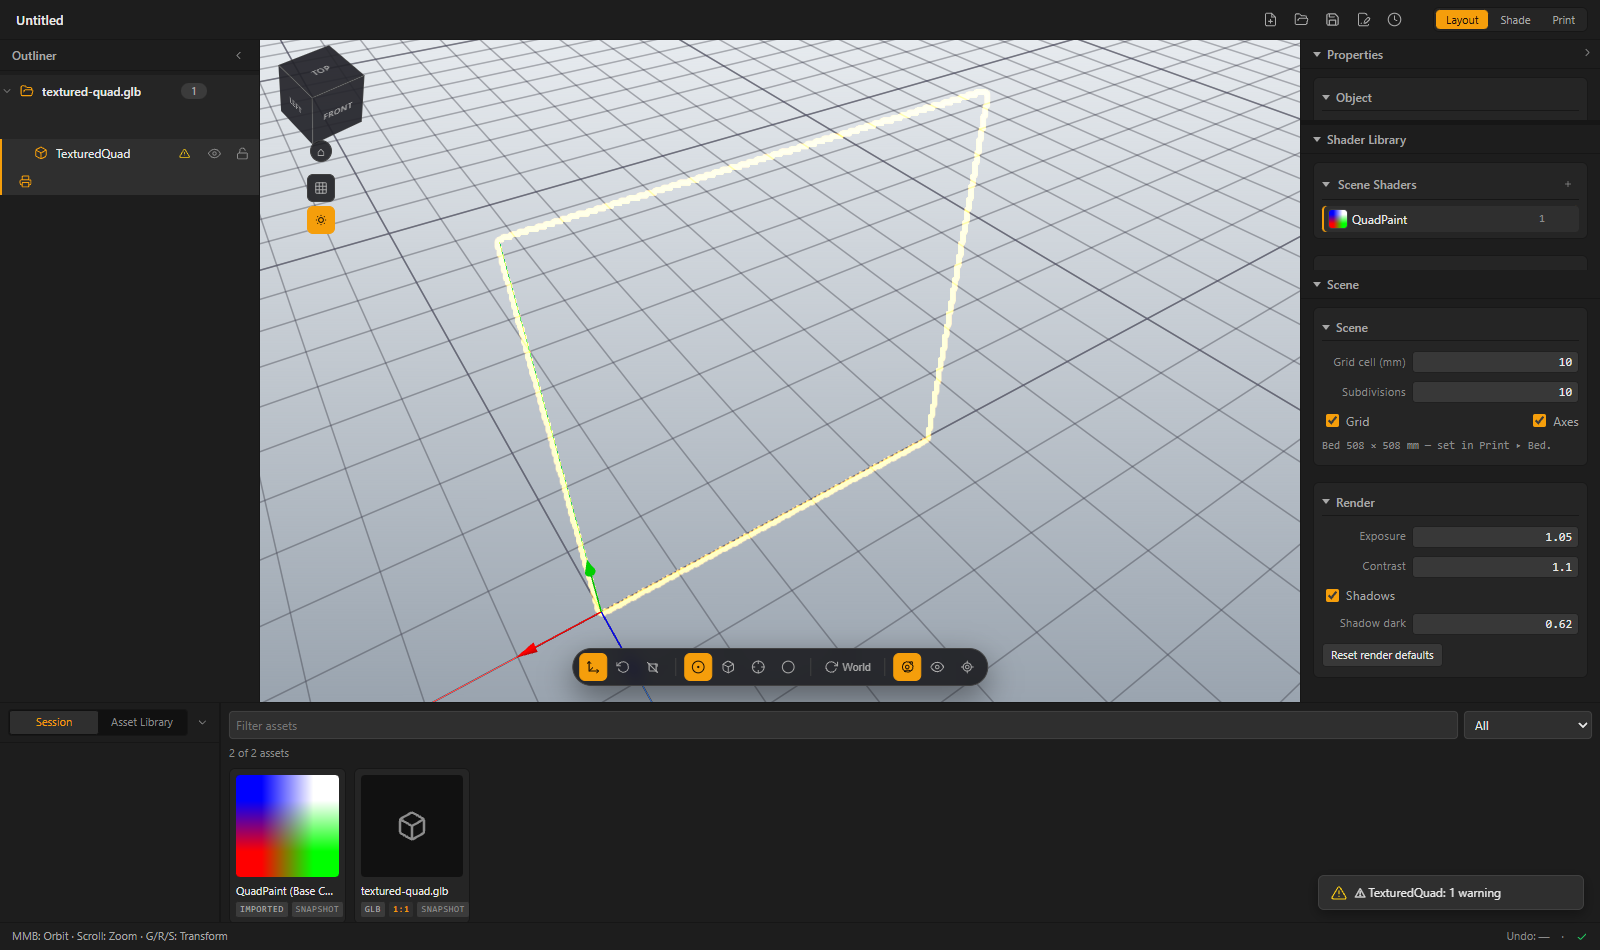
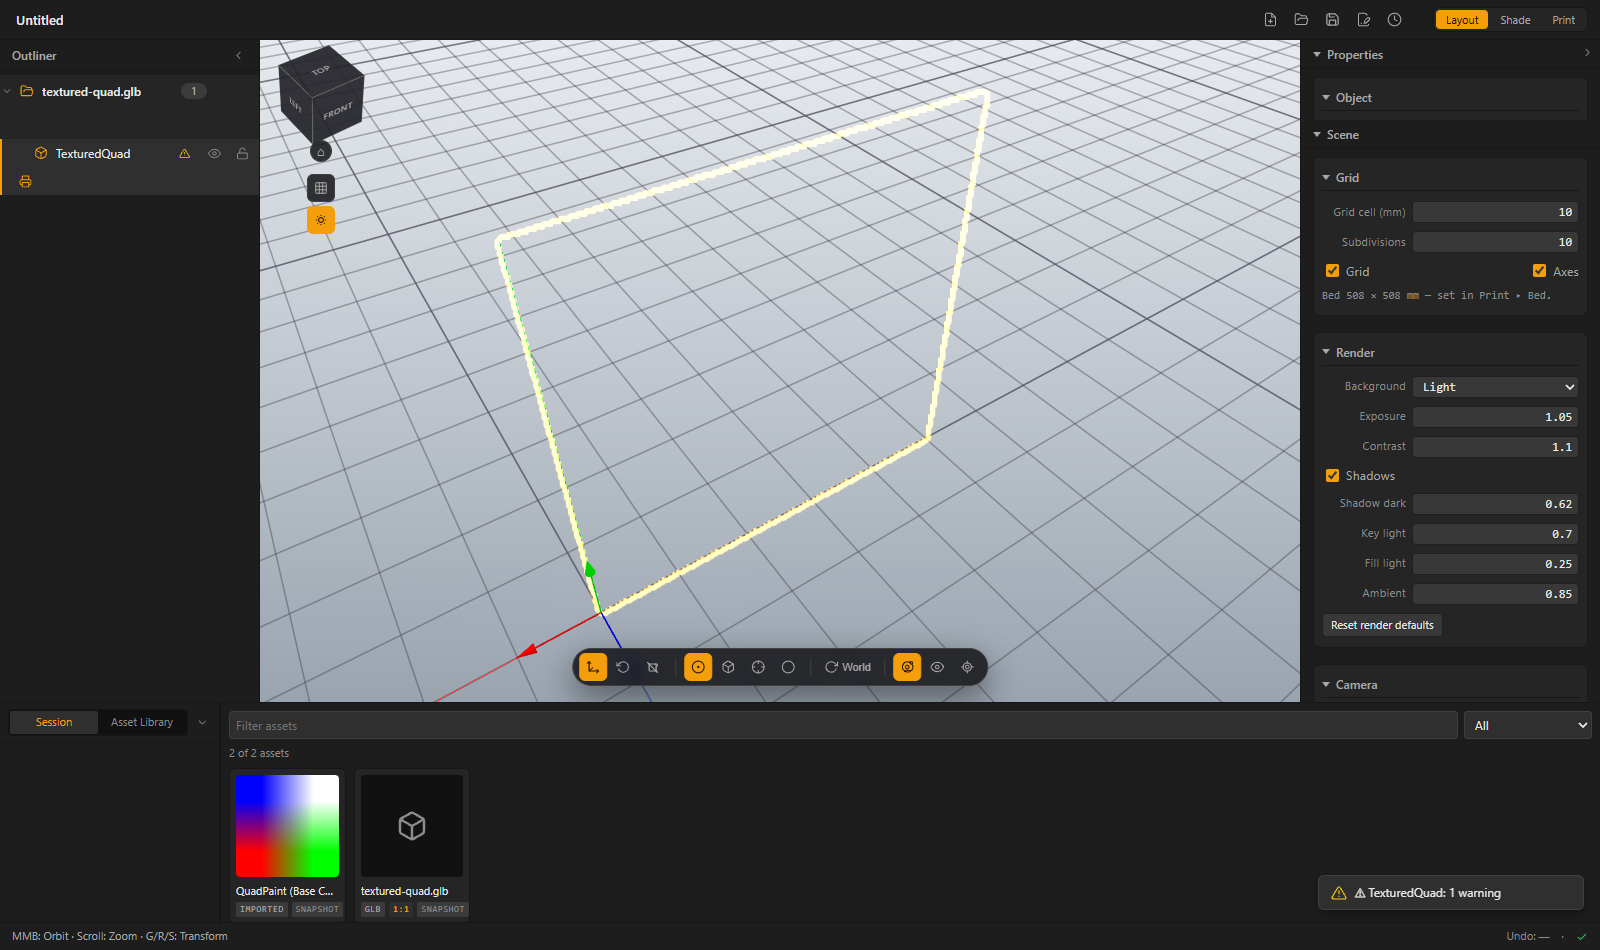
feat(scene): background/lights/camera render settings + one specialist panel per workspace
Scene panel grows two capabilities and the workspaces stop repeating
sections:

- Render section: background Light/Dark toggle (gradient backdrop +
  clearColor repaint via _paintBackground; dark pair added to
  SceneConstants), plus key/fill/ambient light intensity fields
  (SceneManager keeps the light refs now).
- New Camera section: FOV (deg, clamped 5-140) and near clip (mm) ->
  CameraRig.applyCameraOptics, called from applyRenderSettings so one
  settings object drives everything. All persisted in
  sceneSettings.render and re-applied on boot/load/new.
- Workspace sections are now exclusive (user decision: no repeated
  sections across workspaces unless genuinely needed):
  Layout -> Properties + Scene, Shade -> Properties + Shader Library,
  Print -> Properties + Print. The Properties/Shader splitter only
  exists in Shade. ShaderPanel.focus() auto-switches to the Shade
  workspace when invoked from elsewhere (Properties chip click,
  ContextMenu Set Shader) so the edit surface always appears.

Blueprint: render state shape, .mixo schema, Scene panel doc, and the
13b workspace table updated to match.

diff --git a/src/core/SceneManager.js b/src/core/SceneManager.js
@@ -5,6 +5,8 @@ import {
   CURSOR_DIAMETER,
   BG_GRADIENT_TOP,
   BG_GRADIENT_BOTTOM,
+  BG_DARK_TOP,
+  BG_DARK_BOTTOM,
   HEMI_INTENSITY,
   HEMI_GROUND_COLOR,
   KEY_INTENSITY,
@@ -20,7 +22,7 @@ import {
   setGroundVisible, updateBedPreview as _bedUpdatePreview, disposeBedPreview,
 } from './scene/BedGrid.js';
 import {
-  initCameraRig, getCamera,
+  initCameraRig, getCamera, applyCameraOptics,
   setCameraPreset, toggleOrthographic, frameAll, frameSelected,
   saveCameraState, restoreCameraState, setFollowMode,
 } from './scene/CameraRig.js';
@@ -56,6 +58,9 @@ let _scene     = null;
 let _axes      = null;   // { x, y, z } line meshes
 let _cursor    = null;
 let _shadowGen = null;
+let _bgTexture = null;   // gradient DynamicTexture — repainted on bg toggle
+let _bgMode    = 'light';
+let _lights    = null;   // { hemi, key, fill } — Scene panel intensity sliders
 
 // Print preview material tracking
 const _printPreviewMaterialMap = new Map(); // materialId → { originalMetallic }
@@ -136,19 +141,30 @@ export function init(canvas) {
 // texture is enough — it stretches across the viewport; clamp wrap stops
 // edge bleed.
 function _setupBackground() {
-  const tex = new BABYLON.DynamicTexture('mx-bg-gradient', { width: 4, height: 512 }, _scene, false);
-  tex.wrapU = BABYLON.Texture.CLAMP_ADDRESSMODE;
-  tex.wrapV = BABYLON.Texture.CLAMP_ADDRESSMODE;
-  const ctx = tex.getContext();
-  const g = ctx.createLinearGradient(0, 0, 0, 512);
-  g.addColorStop(0, BG_GRADIENT_TOP);
-  g.addColorStop(1, BG_GRADIENT_BOTTOM);
-  ctx.fillStyle = g;
-  ctx.fillRect(0, 0, 4, 512);
-  tex.update();
+  _bgTexture = new BABYLON.DynamicTexture('mx-bg-gradient', { width: 4, height: 512 }, _scene, false);
+  _bgTexture.wrapU = BABYLON.Texture.CLAMP_ADDRESSMODE;
+  _bgTexture.wrapV = BABYLON.Texture.CLAMP_ADDRESSMODE;
+  _paintBackground('light');
 
   const layer = new BABYLON.Layer('mx-bg', null, _scene, /* isBackground */ true);
-  layer.texture = tex;
+  layer.texture = _bgTexture;
+}
+
+/** Repaint the gradient backdrop. @param {'light'|'dark'} mode */
+function _paintBackground(mode) {
+  if (!_bgTexture) return;
+  _bgMode = mode;
+  const top    = mode === 'dark' ? BG_DARK_TOP    : BG_GRADIENT_TOP;
+  const bottom = mode === 'dark' ? BG_DARK_BOTTOM : BG_GRADIENT_BOTTOM;
+  const ctx = _bgTexture.getContext();
+  const g = ctx.createLinearGradient(0, 0, 0, 512);
+  g.addColorStop(0, top);
+  g.addColorStop(1, bottom);
+  ctx.fillStyle = g;
+  ctx.fillRect(0, 0, 4, 512);
+  _bgTexture.update();
+  // Fallback solid (pre-layer frames + screenshot edges) tracks the bottom.
+  _scene.clearColor = BABYLON.Color4.FromHexString(bottom + 'ff');
 }
 
 // ── Lighting ─────────────────────────────────────────────
@@ -171,6 +187,8 @@ function _setupLighting() {
   const fill = new BABYLON.DirectionalLight('fill', new BABYLON.Vector3(1, -1, 1), _scene);
   fill.intensity = FILL_INTENSITY;
   fill.specular  = new BABYLON.Color3(0, 0, 0);
+
+  _lights = { hemi, key, fill };
 
   _shadowGen = new BABYLON.ShadowGenerator(2048, key);
   _shadowGen.useBlurExponentialShadowMap = true;
@@ -371,7 +389,10 @@ export function updateBedPreview(dims) { _bedUpdatePreview(dims); }
  * Apply viewport render settings (Scene panel / state.scene.render).
  * Partial-safe: only the fields present are touched.
  * @param {{ exposure?: number, contrast?: number,
- *           shadowsEnabled?: boolean, shadowDarkness?: number }} [render]
+ *           shadowsEnabled?: boolean, shadowDarkness?: number,
+ *           background?: 'light'|'dark',
+ *           keyIntensity?: number, fillIntensity?: number, hemiIntensity?: number,
+ *           fovDeg?: number, clipNearMM?: number }} [render]
  */
 export function applyRenderSettings(render = {}) {
   if (!_scene) return;
@@ -385,6 +406,16 @@ export function applyRenderSettings(render = {}) {
       light.shadowEnabled = render.shadowsEnabled;
     }
   }
+  if ((render.background === 'light' || render.background === 'dark') &&
+      render.background !== _bgMode) {
+    _paintBackground(render.background);
+  }
+  if (_lights) {
+    if (Number.isFinite(render.hemiIntensity)) _lights.hemi.intensity = render.hemiIntensity;
+    if (Number.isFinite(render.keyIntensity))  _lights.key.intensity  = render.keyIntensity;
+    if (Number.isFinite(render.fillIntensity)) _lights.fill.intensity = render.fillIntensity;
+  }
+  applyCameraOptics(render);
 }
 
 // ── 3D cursor ────────────────────────────────────────────

diff --git a/src/ui/ScenePanel.js b/src/ui/ScenePanel.js
@@ -11,6 +11,7 @@ import { subscribe, getState, setState } from '../core/StateManager.js';
 import { SceneManager } from '../core/SceneManager.js';
 import {
   TONE_EXPOSURE, TONE_CONTRAST, SHADOW_DARKNESS,
+  KEY_INTENSITY, FILL_INTENSITY, HEMI_INTENSITY,
 } from '../core/scene/SceneConstants.js';
 
 const SILENT = { silent: true };
@@ -20,6 +21,12 @@ const RENDER_DEFAULTS = {
   contrast: TONE_CONTRAST,
   shadowsEnabled: true,
   shadowDarkness: SHADOW_DARKNESS,
+  background: 'light',
+  keyIntensity: KEY_INTENSITY,
+  fillIntensity: FILL_INTENSITY,
+  hemiIntensity: HEMI_INTENSITY,
+  fovDeg: 45.8,       // Babylon ArcRotateCamera default fov 0.8 rad
+  clipNearMM: 1,      // CameraRig boots with minZ 0.001 BU = 1 mm
 };
 
 let _bodyEl = null;
@@ -63,6 +70,13 @@ function _render() {
     <section class="pp-section">
       <header class="pp-section-header">Render</header>
       <div class="pp-row">
+        <label>Background</label>
+        <select data-render-select="background">
+          <option value="light" ${render.background !== 'dark' ? 'selected' : ''}>Light</option>
+          <option value="dark" ${render.background === 'dark' ? 'selected' : ''}>Dark</option>
+        </select>
+      </div>
+      <div class="pp-row">
         <label>Exposure</label>
         <input type="number" step="0.05" min="0.1" max="4" data-render="exposure" value="${_fmt(render.exposure)}">
       </div>
@@ -77,8 +91,31 @@ function _render() {
         <label>Shadow dark</label>
         <input type="number" step="0.05" min="0" max="1" data-render="shadowDarkness" value="${_fmt(render.shadowDarkness)}">
       </div>
+      <div class="pp-row">
+        <label>Key light</label>
+        <input type="number" step="0.05" min="0" max="3" data-render="keyIntensity" value="${_fmt(render.keyIntensity)}">
+      </div>
+      <div class="pp-row">
+        <label>Fill light</label>
+        <input type="number" step="0.05" min="0" max="3" data-render="fillIntensity" value="${_fmt(render.fillIntensity)}">
+      </div>
+      <div class="pp-row">
+        <label>Ambient</label>
+        <input type="number" step="0.05" min="0" max="3" data-render="hemiIntensity" value="${_fmt(render.hemiIntensity)}">
+      </div>
       <div class="pp-row pp-row-inline">
         <button type="button" class="pp-btn" data-action="render-reset">Reset render defaults</button>
+      </div>
+    </section>
+    <section class="pp-section">
+      <header class="pp-section-header">Camera</header>
+      <div class="pp-row">
+        <label>FOV (deg)</label>
+        <input type="number" step="1" min="5" max="140" data-render="fovDeg" value="${_fmt(render.fovDeg, 1)}">
+      </div>
+      <div class="pp-row">
+        <label>Near clip (mm)</label>
+        <input type="number" step="0.5" min="0.1" max="100" data-render="clipNearMM" value="${_fmt(render.clipNearMM, 1)}">
       </div>
     </section>
   `;
@@ -129,6 +166,11 @@ function _wire() {
   // Shadows toggle.
   _bodyEl.querySelector('[data-render-toggle="shadowsEnabled"]')?.addEventListener('change', (e) => {
     _setRender({ shadowsEnabled: e.target.checked });
+  });
+
+  // Background select.
+  _bodyEl.querySelector('[data-render-select="background"]')?.addEventListener('change', (e) => {
+    _setRender({ background: e.target.value === 'dark' ? 'dark' : 'light' });
   });
 
   _bodyEl.querySelector('[data-action="render-reset"]')?.addEventListener('click', () => {

diff --git a/src/core/StateManager.js b/src/core/StateManager.js
@@ -28,9 +28,16 @@ const INITIAL_STATE = {
     },
     overlays: { grid: true, axes: true, wireframe: false, printPreview: true, bedPreview: false },
     // Viewport render look (Scene panel). Defaults mirror scene/SceneConstants
-    // (TONE_EXPOSURE / TONE_CONTRAST / SHADOW_DARKNESS) — applied via
-    // SceneManager.applyRenderSettings on boot/load/new.
-    render: { exposure: 1.05, contrast: 1.10, shadowsEnabled: true, shadowDarkness: 0.62 },
+    // (tone/shadow/light values) — applied via SceneManager.applyRenderSettings
+    // on boot/load/new. fovDeg 45.8° = Babylon's 0.8 rad default; clipNearMM 1
+    // = the 1 mm near plane CameraRig boots with.
+    render: {
+      exposure: 1.05, contrast: 1.10,
+      shadowsEnabled: true, shadowDarkness: 0.62,
+      background: 'light',
+      keyIntensity: 0.70, fillIntensity: 0.25, hemiIntensity: 0.85,
+      fovDeg: 45.8, clipNearMM: 1,
+    },
     // The scene floor footprint equals the printer bed XY (print.bedDimensions).
     // `grid` only styles the lines drawn on it: cellMM = minor cell size in mm,
     // subdivisions = how many minor cells between major lines.

diff --git a/src/styles/layout.css b/src/styles/layout.css
@@ -263,8 +263,18 @@
    and the grid recomputes. Panel-level collapse uses the existing
    *-outer-collapsed classes + grid variables (driven by ui/Workspace.js). */
 
-body[data-workspace="layout"] #rp-print   { display: none; }
-body[data-workspace="shade"]  #rp-print   { display: none; }
+/* Each workspace shows Properties + exactly ONE specialist section — no
+   repeated sections across workspaces (they dilute the presets):
+     Layout → Scene (arrange + scene/render setup)
+     Shade  → Shader Library (ShaderPanel.focus auto-switches here)
+     Print  → Print
+   The splitter sits between Properties and Shader Library, so it only
+   exists in Shade. */
+body[data-workspace="layout"] #rp-print,
+body[data-workspace="layout"] #rp-shaders,
+body[data-workspace="layout"] .rp-splitter { display: none; }
+body[data-workspace="shade"]  #rp-print,
+body[data-workspace="shade"]  #rp-scene   { display: none; }
 body[data-workspace="print"]  #rp-shaders,
 body[data-workspace="print"]  #rp-scene,
 body[data-workspace="print"]  .rp-splitter { display: none; }

diff --git a/src/ui/ShaderPanel.js b/src/ui/ShaderPanel.js
@@ -13,6 +13,7 @@ import { icon } from '../core/Icons.js';
 import { AssetPanel } from './AssetPanel.js';
 import { Modal } from './Modal.js';
 import { escapeHtml as _escape, escapeAttr, safeImageSrc } from './renderSafe.js';
+import { Workspace } from './Workspace.js';
 
 const DRAG_MIME       = 'application/x-mixomesh-asset';
 const SHADER_DRAG_MIME = 'application/x-mixomesh-shader';
@@ -750,6 +751,10 @@ function _safeHex(value) {
 export function focus(shaderId) {
   if (!getState().scene.shaders[shaderId]) return;
   _editingId = shaderId;
+  // The Library section only exists in the Shade workspace (sections are
+  // per-workspace, no repeats) — focusing from Properties / ContextMenu in
+  // another workspace must bring it on screen first.
+  if (document.body.dataset.workspace !== 'shade') Workspace.setWorkspace('shade');
   document.getElementById('rp-shaders')?.classList.remove('collapsed');
   _render();
 }

diff --git a/src/core/scene/CameraRig.js b/src/core/scene/CameraRig.js
@@ -95,6 +95,20 @@ export function initCameraRig(scene, canvas) {
 /** @returns {BABYLON.ArcRotateCamera|null} */
 export function getCamera() { return _camera; }
 
+/**
+ * Apply camera optics from the Scene panel's render settings. Partial-safe.
+ * @param {{ fovDeg?: number, clipNearMM?: number }} [optics]
+ */
+export function applyCameraOptics(optics = {}) {
+  if (!_camera) return;
+  if (Number.isFinite(optics.fovDeg) && optics.fovDeg >= 5 && optics.fovDeg <= 140) {
+    _camera.fov = optics.fovDeg * Math.PI / 180;
+  }
+  if (Number.isFinite(optics.clipNearMM) && optics.clipNearMM > 0) {
+    _camera.minZ = optics.clipNearMM / 1000;   // mm → BU (1 BU = 1 m)
+  }
+}
+
 // ── Camera setup + pointer navigation ────────────────────
 
 function _setupCamera() {

diff --git a/src/core/scene/SceneConstants.js b/src/core/scene/SceneConstants.js
@@ -10,6 +10,10 @@ export const CURSOR_DIAMETER = 0.003;
 
 export const BG_GRADIENT_TOP = '#e7ebef';
 export const BG_GRADIENT_BOTTOM = '#9aa4af';
+// Dark viewport variant (Scene ▸ Render background toggle) — Blender-ish
+// neutral grays, kept lighter than the UI panels so silhouettes still read.
+export const BG_DARK_TOP = '#3c4046';
+export const BG_DARK_BOTTOM = '#1e2126';
 export const HEMI_INTENSITY = 0.85;
 export const HEMI_GROUND_COLOR = '#c6cbd2';
 export const KEY_INTENSITY = 0.70;

diff --git a/Blueprint.md b/Blueprint.md
@@ -687,7 +687,11 @@ const initialState = {
     // use (not in INITIAL_STATE); persistence restores them when present.
     // Viewport render look (Scene panel) — defaults mirror SceneConstants;
     // applied via SceneManager.applyRenderSettings on boot/load/new.
-    render: { exposure: 1.05, contrast: 1.10, shadowsEnabled: true, shadowDarkness: 0.62 },
+    // fovDeg 45.8 = Babylon's 0.8 rad default; clipNearMM 1 = 1 mm near plane.
+    render: { exposure: 1.05, contrast: 1.10, shadowsEnabled: true, shadowDarkness: 0.62,
+              background: 'light' /* |'dark' */,
+              keyIntensity: 0.70, fillIntensity: 0.25, hemiIntensity: 0.85,
+              fovDeg: 45.8, clipNearMM: 1 },
     grid: { cellMM: 10, subdivisions: 10 },  // line styling only; floor footprint = print.bedDimensions XY
     cursor3d: { x: 0, y: 0, z: 0 },
   },
@@ -1592,7 +1596,10 @@ Every field persisted. Restored exactly.
     "overlays": { "grid": true, "axes": true, "wireframe": false, "printPreview": true,
                   "bedPreview": false, "wireframeEdges": false, "wireframeEdgeColor": "#f59e0b" },
     "render": { "exposure": 1.05, "contrast": 1.10,
-                "shadowsEnabled": true, "shadowDarkness": 0.62 },
+                "shadowsEnabled": true, "shadowDarkness": 0.62,
+                "background": "light", "keyIntensity": 0.70,
+                "fillIntensity": 0.25, "hemiIntensity": 0.85,
+                "fovDeg": 45.8, "clipNearMM": 1 },
     "grid": { "cellMM": 10, "subdivisions": 10 },  /* line styling only; footprint = print.bedDimensions XY */
     "cursor3d": { "x":0, "y":0, "z":0 }
   },
@@ -2290,13 +2297,17 @@ Right-panel section `#rp-scene` (stacked after Shader Library, hidden in the
 Print workspace). Scene-wide settings, moved out of the Properties panel so
 they stay reachable while an object is selected (the old Scene section only
 rendered with nothing active — Properties is object-scoped now). Sections:
-- **Scene** — grid cell (mm) + subdivisions (`SceneManager.setGrid`), grid +
+- **Grid** — grid cell (mm) + subdivisions (`SceneManager.setGrid`), grid +
   axes visibility checkboxes (overlay contract), bed-size hint.
-- **Render** — exposure, contrast, shadows on/off, shadow darkness + a
-  "Reset render defaults" button. Writes `state.scene.render` (silent) and
-  applies via `SceneManager.applyRenderSettings`; persisted in
-  `sceneSettings.render`, re-applied on boot / load / new. Defaults mirror
-  `scene/SceneConstants.js` (TONE_EXPOSURE / TONE_CONTRAST / SHADOW_DARKNESS).
+- **Render** — background Light/Dark (repaints the gradient backdrop +
+  clearColor), exposure, contrast, shadows on/off, shadow darkness,
+  key/fill/ambient light intensities + a "Reset render defaults" button.
+- **Camera** — FOV (deg, clamped 5–140) and near clip (mm) →
+  `CameraRig.applyCameraOptics` via the same settings object.
+All of it writes `state.scene.render` (silent) and applies via
+`SceneManager.applyRenderSettings` (partial-safe); persisted in
+`sceneSettings.render`, re-applied on boot / load / new. Defaults mirror
+`scene/SceneConstants.js`.
 
 ### Viewport Toolbar (`src/ui/ViewportToolbar.js`)
 
@@ -2385,11 +2396,15 @@ events, `body[data-workspace]` CSS in layout.css, SceneManager resize hooks,
 localStorage persistence, `.mixo` ui-strip. Two deliberate v1 deviations:
 - **Hotkeys are `Ctrl+Shift+1/2/3`**, not the spec'd `Ctrl+1/2/3` — Chrome
   reserves Ctrl+digit for tab switching and never delivers it to the page.
-- **Panel-level presets only.** The per-SECTION expand/collapse defaults in
-  the workspace table below (e.g. "Transform expanded, Shader header-
-  collapsed") are NOT implemented — section visibility per workspace is
-  (Layout/Shade hide Print; Print hides Shader Library), but expansion state
-  within visible panels is left to the user. Follow-up if wanted.
+- **Section-visibility presets, not expand presets.** The per-SECTION
+  expand/collapse defaults in the workspace table below (e.g. "Transform
+  expanded, Shader header-collapsed") are NOT implemented. Instead (2026-06-12
+  decision: no repeated sections across workspaces unless genuinely needed)
+  each workspace shows Properties + exactly ONE specialist section:
+  Layout → **Scene** panel, Shade → **Shader Library**, Print → **Print**.
+  `ShaderPanel.focus()` auto-switches to Shade when invoked from another
+  workspace (Properties chip click / ContextMenu Set Shader). Expansion state
+  within visible panels is left to the user.
 
 **Design intent.** The user's workflow is linear — *Import → Arrange → Shade → Print* — not the swiss-army-knife DCC pattern. Tabbed panels with manual resize don't scale once the Print pipeline grows (Bed / Scale / Validation / Export, plus deferred Thickness / Orientation). Industry-standard fix is **workspace presets** (Blender top-bar pattern, also Substance Painter, Maya, Cinema 4D, Houdini): a tiny set of named panel layouts, one click to switch. The user stops resizing because the layout is *per task*, not freeform.
 
@@ -2401,11 +2416,11 @@ This is **not** a full dockable/floating-panel system (Blender's `Area`/`Region`
 
 ### The three workspaces
 
-| Workspace | Outliner | Properties | Shader Library | Asset Panel | Print Panel |
-|---|---|---|---|---|---|
-| **Layout** (default — import & arrange) | visible 260px | visible (Object + Transform expanded; Shader / UV header-collapsed) | header-collapsed | visible at default 220px (drop target focus) | hidden |
-| **Shade** (texture / shader / UV) | visible 220px (narrow) | visible (Shader + UV Override expanded; Transform header-collapsed) | visible, expanded — primary edit surface | collapsed to header bar (textures still drop OK; thumbnail browse via picker modal) | hidden |
-| **Print** (validate + export) | visible 220px (narrow) | collapsed except **Print Part** section | hidden | collapsed to header bar | visible at full height (Bed → Scale → Export, validation embedded as a checklist at the top of the Export tab per the option-A fold-in) |
+| Workspace | Outliner | Properties | Scene Panel | Shader Library | Asset Panel | Print Panel |
+|---|---|---|---|---|---|---|
+| **Layout** (default — import & arrange) | visible 260px | visible | **visible** (grid / render / camera setup) | hidden | visible at default 220px (drop target focus) | hidden |
+| **Shade** (texture / shader / UV) | visible 220px (narrow) | visible | hidden | **visible, expanded — primary edit surface** | hidden | hidden |
+| **Print** (validate + export) | visible 220px (narrow) | visible | hidden | hidden | hidden | **visible at full height** (Scale / Validation / Bed / Export) |
 
 Outliner is **pinned** in every workspace — you always need the scene list to know what you're working on. The user can still hide it via `panelCollapsed.left` (manual override), but it isn't a workspace default.
 
